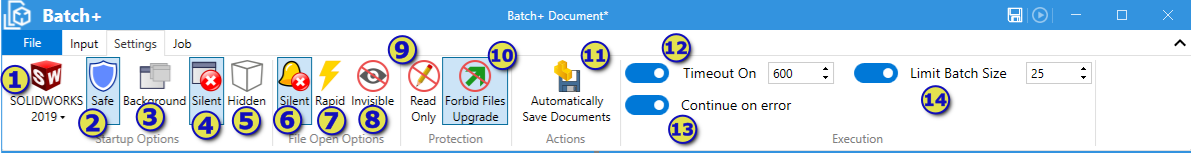
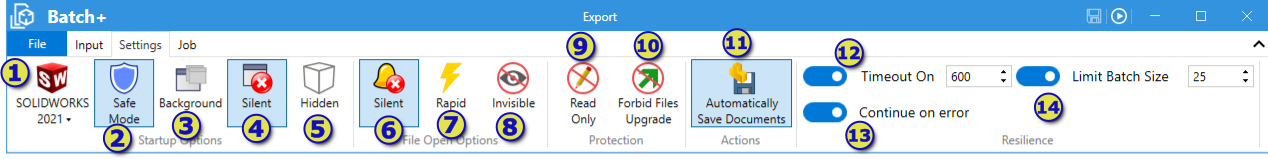
Updated documentation as per Beta 2

diff --git a/toolbar/configuration/index.md b/toolbar/configuration/index.md
@@ -9,12 +9,9 @@ redirect-from:
 ---
 ## Adding Macro Buttons And Toolbars
 
-Macro buttons can be configured by clicking on 'Configure...' command in Toolbar+ menu in SOLIDWORKS
+Macro buttons can be configured by clicking on 'Configure Custom Toolbars...' command in Toolbar+ menu in SOLIDWORKS
 
 ![Toolbar+ add-in menu in SOLIDWORKS](custom-toolbar-menu.png){ width=550 }
-
-1. Toolbar+ sub-menu in SOLIDWORKS Tools menu
-1. Button to configure toolbar
 
 Configuration dialog is displayed and existing toolbar and buttons can be modified as well as new can be added.
 
@@ -37,9 +34,11 @@ Configure the parameters as shown below:
 1. Macro custom arguments. See [arguments](arguments/) article for more information
 1. Triggers. Macro trigger options. Follow [triggers](triggers) article for more information
 1. Command scope. Identifies the scope (part, assembly, drawing, no documents) where macro can be run. Macro will be disabled in the not selected environments
-1. Command location. Identifies where command should be added (menu, toolbar). This option is only available for **Button** and **Toggle Button** triggers
+1. Command location. Identifies where command should be added (menu, toolbar, tab box). This option is only available for **Button** and **Toggle Button** triggers
 1. Toggle Button State Code group - options for handling the state of toggle button if **Toggle Button** trigger is specified. Follow [Toggles](toggles/) article for more information.
 1. Unload After Run. If option is checked macro will be automatically unloaded after run. This option is useful when macro is [shared](../multi-user/) across different users. In this case macro wil lbe released immediately enabling the possibility to replace the macro with new version. This option cannot be used if macro displays User Form as in this case it will be immediately unloaded and form will be closed. Untick this option if macro uses User Form or any other popup Window.
+
+> It is possible to use relative path for icon and macro path options. Use **..\\** to indicate the relative path to the **toolbar.setts** file. This is in particular useful when toolbar settings are moved across the computers or setup in the [shared environment](../multi-user/)
 
 ### Configuring Toolbar
 
@@ -70,6 +69,8 @@ If toolbar configuration changed the following message is displayed and SOLIDWOR
 
 ![Toolbar+ specification changed notification](toolbar-spec-changed.png){ width=350 }
 
+> Toolbar+ attempting to preserve the IDs of the buttons to keep the customization. However SOLIDWORKS might need to clear the IDs after toolbar has been changed. When toolbar is changed and new commands are added or removed it might be required to restart SOLIDWORKS twice after the toolbar change to correctly display the commands within the toolbar.
+
 ## Accessing Macro Buttons
 
 Toolbars are available in the SOLIDWORKS toolbars list:
@@ -79,6 +80,10 @@ Toolbars are available in the SOLIDWORKS toolbars list:
 and in the SOLIDWORKS menu.
 
 ![Macro buttons in SOLIDWORKS menu](custom-toolbar-commands-menu.png){ width=450 }
+
+If command is added to Tab Box (ribbon) all the toolbars will be added under the **Toolbar+** command tab box. Individual toolbars will be separated.
+
+![Toolbar commands in the command tab boxes](toolbar-command-tab.png)
 
 Toolbars can be reorganized and placed into the SOLIDWORKS command manager area. Visit [Customization](../customization/) page for additional customization options for the toolbars and commands.
 

diff --git a/batch/assembly/index.md b/batch/assembly/index.md
@@ -13,14 +13,15 @@ In this case custom macro can be run on the selected components or all reference
 
 ![Batch+ Property Manager Page](property-page.png)
 
-1. Components to run the macro on
 1. Option to process selected components or [all referenced documents](#exporting-referenced-documents)
+1. Components to run the macro on
 1. List of macros to run
 1. Optional macro arguments. Specify the arguments in the command line format if macro supports ones. Follow [Macro Arguments](/macro-arguments/) article of the instructions of how to use macro arguments.
 1. Button to add macros to the scope
 1. Specifies if documents needs to be activated (opened in their own windows). If this option is not selected macro will be run on invisible models. Follow [Model pointer in invisible mode](/batch/user-interface#model-pointer-in-invisible-mode) for more information.
 1. Option to specify if unloaded documents can be opened read-only. This option will only apply to the documents not currently loaded in SOLIDWORKS (or as a part of assembly components), such as suppressed components, lightweight components or components of the assembly opened in the Large Design Review mode
 1. Option allows to specify if components can be opened in the rapid mode (Large Design Review for assemblies or Detailing mode for drawings)
+1. Option to automatically save files
 1. Option allows to additionally include drawings referenced by the components of the assembly. This provides similar functionality of [Extract References](/batch/extract-references/)
 1. Order by Dependencies option allows to order the input references based on the dependency (from children to parents or vice-versa). Refer [Order By Dependencies](/batch/order-by-dependencies/) article for more information.
 1. Start the batch process

diff --git a/batch/user-interface/index.md b/batch/user-interface/index.md
@@ -184,12 +184,28 @@ Contains detailed breakdown for each file and macro. Icon corresponds to the sta
 
 Files or macros which are failed to process will have a corresponding icon and the clickable **?** link. Click this link to get more information about the error.
 
-![Failed status information](failed-status.png)
-
 Each column of the grid can be sorted to quickly identify failed items if needed.
+
+#### Custom Errors
+
+Batch+ can read the exception errors thrown by the macro with **Err.Raise** when run in the **Silent** mode and display this error in the status.
+
+~~~ vb
+Dim swApp As SldWorks.SldWorks
+
+Sub main()
+
+    Set swApp = Application.SldWorks
+    
+    Err.Raise vbError, "", "Custom error from the VBA macro"
+
+End Sub
+~~~
+
+![Custom VBA macro error](custom-vba-macro-error.png)
 
 ### Journal
 
-![Log tab](journal-tab.png)
+![Journal tab](journal-tab.png)
 
 Journal contains detailed log messages about the progress. Use this log to troubleshoot errors.
